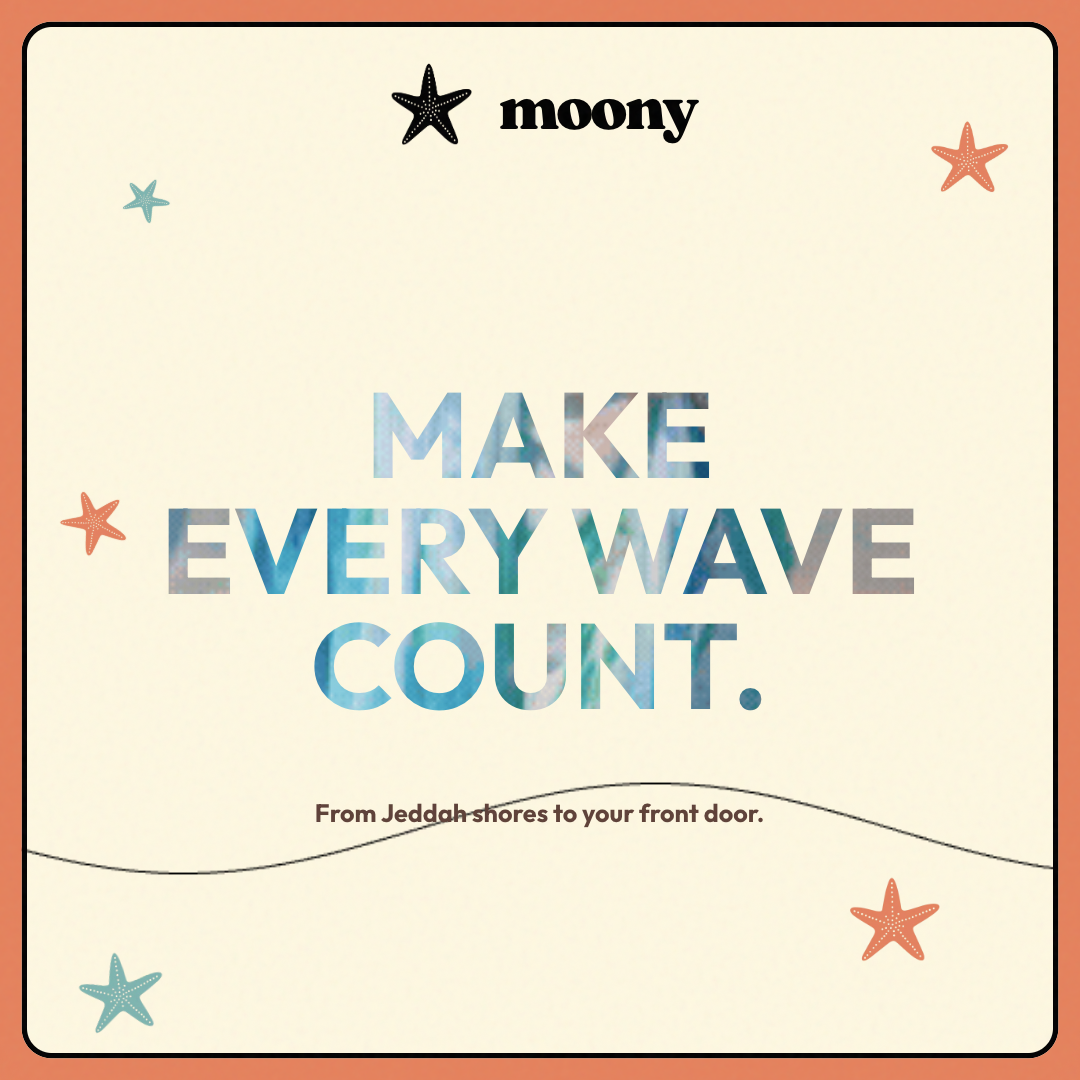
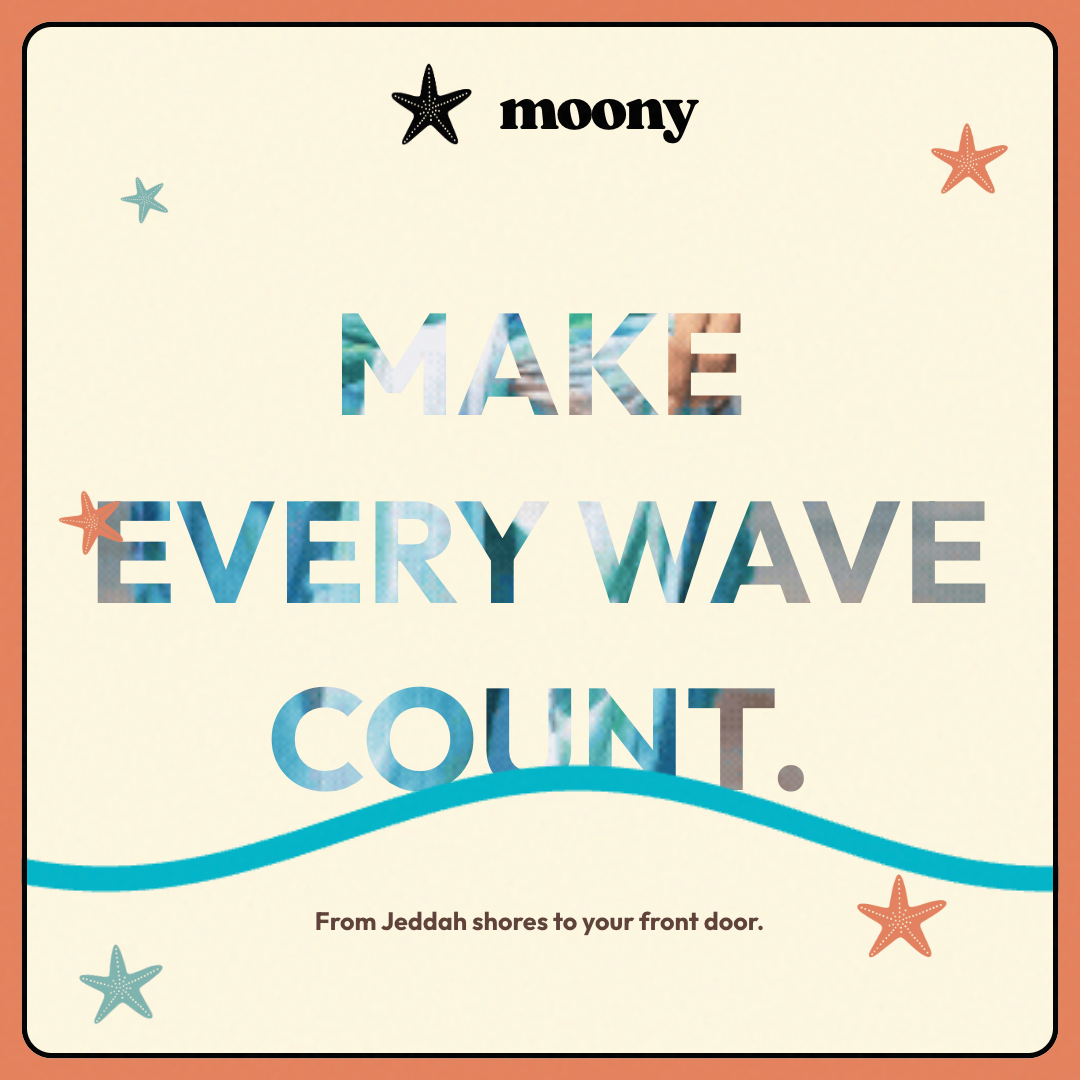
fix: vivid teal wave, matched text sizes EN/AR, removed bad h1 override

diff --git a/client/src/components/ui/canvas-wave.tsx b/client/src/components/ui/canvas-wave.tsx
@@ -16,23 +16,22 @@ export default function CanvasWave() {
     let time = 0;
     
     // Wave configuration
-    const amplitude = 25; // height of the wave — bigger for visibility
-    const frequency = 0.012; // tightness of the wave
-    const speed = 0.04; // speed of horizontal movement
-    const thickness = 10; // thick enough to be clearly seen
-    
-    ctx.lineJoin = 'round';
-    ctx.lineCap = 'round';
-    ctx.lineWidth = thickness;
-    ctx.strokeStyle = '#6bb7b3'; // Brand teal
+    const amplitude = 28;
+    const frequency = 0.012;
+    const speed = 0.04;
+    const thickness = 14;
+    const color = '#00b4c8'; // vivid teal, clearly visible on beige
 
     const renderWave = () => {
       ctx.clearRect(0, 0, cw, ch);
+      // Reset styles each frame to ensure color/width are applied
+      ctx.lineJoin = 'round';
+      ctx.lineCap = 'round';
+      ctx.lineWidth = thickness;
+      ctx.strokeStyle = color;
       ctx.beginPath();
       
-      // Draw a continuous sine wave across the canvas width
-      for (let x = 0; x <= cw; x += 5) {
-        // y centers at 50% of the container — middle of the wave div, clearly visible
+      for (let x = 0; x <= cw; x += 4) {
         const y = (ch * 0.5) + Math.sin(x * frequency + time) * amplitude;
         if (x === 0) {
           ctx.moveTo(x, y);

diff --git a/capture-og.js b/capture-og.js
@@ -70,13 +70,13 @@ async function main() {
   console.log("Capturing English OG...");
   await page.goto('http://localhost:5001/', { waitUntil: 'networkidle0' });
   await hideElements();
-  await new Promise(r => setTimeout(r, 3000)); // wait for wave animation to draw
+  await new Promise(r => setTimeout(r, 3000));
   await page.screenshot({ path: 'client/public/images/og-en.png', clip: { x: 0, y: 0, width: 600, height: 600 } });
 
   console.log("Capturing Arabic OG...");
   await page.goto('http://localhost:5001/ar', { waitUntil: 'networkidle0' });
   await hideElements();
-  await new Promise(r => setTimeout(r, 3000)); // wait for wave animation to draw
+  await new Promise(r => setTimeout(r, 3000));
   await page.screenshot({ path: 'client/public/images/og-ar.png', clip: { x: 0, y: 0, width: 600, height: 600 } });
 
   await browser.close();

diff --git a/client/src/pages/home.tsx b/client/src/pages/home.tsx
@@ -132,8 +132,8 @@ export default function Home() {
                 className="uppercase font-black w-full text-center tracking-normal text-transparent bg-clip-text bg-cover bg-center"
                 style={{
                   backgroundImage: `url(${selectedCollection === 'daydream' ? '/images/models/daydream/VIDDD.gif' : '/images/models/aquaglow/VIDAG.gif'})`,
-                  fontSize: isAr ? "clamp(5rem, 12vw, 9rem)" : "clamp(4.2rem, 10vw, 10rem)",
-                  lineHeight: isAr ? "1.5" : "0.95",
+                  fontSize: isAr ? "clamp(5rem, 12vw, 9rem)" : "clamp(5rem, 12vw, 9rem)",
+                  lineHeight: "1.3",
                   fontFamily: isAr ? "'Noto Kufi Arabic', sans-serif" : "inherit",
                   WebkitTextStroke: isAr ? "4px transparent" : "none"
                 }}
